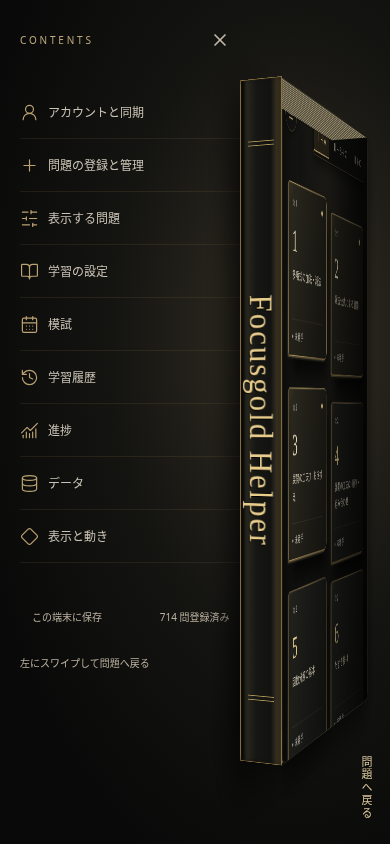
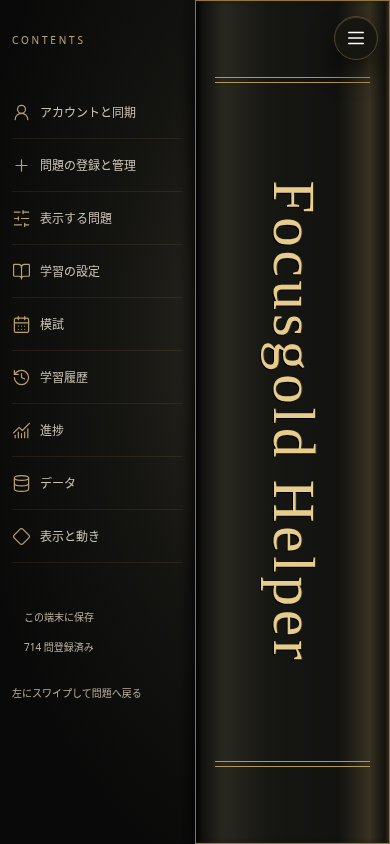
Turn book menu fully 90 degrees and float its toggle across screen

diff --git a/src/style.css b/src/style.css
@@ -1646,12 +1646,13 @@ input[type="date"] {
 /* A bound volume in a single perspective space. No canvas or animation library. */
 .book-scene {
   --turn: 0;
-  --book-thickness: 56px;
+  --book-thickness: 50vw;
+  --button-lift: 0;
   position: relative;
   width: 100%;
   height: 100%;
   perspective: 1800px;
-  perspective-origin: 50% 48%;
+  perspective-origin: 100% 50%;
   background: radial-gradient(
     ellipse at 75% 40%,
     #353025 0,
@@ -1666,12 +1667,8 @@ input[type="date"] {
   inset: 0;
   transform-style: preserve-3d;
   transform-origin: left center;
-  transform: translate3d(
-      calc(var(--turn) * min(74vw, 650px)),
-      0,
-      calc(var(--turn) * -100px)
-    )
-    rotateY(calc(var(--turn) * 67deg)) scale(calc(1 - var(--turn) * 0.12));
+  transform: translateX(calc(var(--turn) * 100%))
+    rotateY(calc(var(--turn) * 90deg));
   pointer-events: auto;
 }
 .book-scene[data-turning="true"] .book-volume {
@@ -1689,7 +1686,7 @@ input[type="date"] {
     #0c0c0b 100%
   );
   border: 1px solid #8b75422b;
-  border-radius: calc(var(--turn) * 12px);
+  border-radius: 0;
   box-shadow:
     0 18px 60px #0009,
     inset 2px 0 2px #d3ba7f22;
@@ -1742,7 +1739,7 @@ input[type="date"] {
   transform: translate(-50%, -50%) rotate(90deg);
   white-space: nowrap;
   font-family: "Bodoni MT", Didot, "Times New Roman", serif;
-  font-size: clamp(24px, 4.5dvh, 39px);
+  font-size: clamp(24px, 7dvh, 72px);
   letter-spacing: 0.065em;
   color: #e7cc8b;
   text-shadow:
@@ -1751,8 +1748,8 @@ input[type="date"] {
 }
 .spine-rule {
   position: absolute;
-  left: 8px;
-  right: 8px;
+  left: 10%;
+  right: 10%;
   height: 6px;
   border-block: 1px solid #b39759;
 }
@@ -1781,7 +1778,7 @@ input[type="date"] {
 .flip-menu {
   position: absolute;
   inset: 0 auto 0 0;
-  width: min(65%, 510px);
+  width: 50%;
   padding: max(18px, env(safe-area-inset-top)) 20px
     max(20px, env(safe-area-inset-bottom)) max(24px, env(safe-area-inset-left));
   overflow-y: auto;
@@ -1792,6 +1789,7 @@ input[type="date"] {
   transform: translateX(calc((1 - var(--turn)) * -24px));
 }
 .flip-menu-top {
+  min-height: 44px;
   display: flex;
   align-items: center;
   justify-content: space-between;
@@ -1835,20 +1833,11 @@ input[type="date"] {
 }
 .book-return {
   position: absolute;
-  left: min(65%, 560px);
+  left: 50%;
   right: 0;
   top: 0;
   bottom: 0;
   z-index: 3;
-}
-.book-return > span {
-  position: absolute;
-  bottom: max(24px, env(safe-area-inset-bottom));
-  right: 16px;
-  color: #d8c59a;
-  font-size: 11px;
-  writing-mode: vertical-rl;
-  letter-spacing: 0.16em;
 }
 .book-return:focus-visible {
   outline-offset: -8px;
@@ -1862,12 +1851,30 @@ input[type="date"] {
 .book-scene .book-tabs button {
   min-height: 44px;
 }
+/* One persistent button leaves the rotating face and travels above the scene. */
 .book-scene .menu-trigger {
+  --trigger-left: max(12px, env(safe-area-inset-left));
+  --trigger-right: max(12px, env(safe-area-inset-right));
+  left: var(--trigger-left);
+  top: calc(16px + env(safe-area-inset-top));
+  z-index: 6;
   border-radius: 50%;
+  background: #161510;
+  transform: translate3d(
+    calc(
+      var(--turn) * (100vw - var(--trigger-left) - var(--trigger-right) - 44px)
+    ),
+    calc(var(--button-lift) * 8px),
+    calc(var(--button-lift) * 32px)
+  );
   box-shadow:
-    0 4px 10px #0005,
-    inset 0 1px #b9a16b22;
+    0 calc(4px + var(--turn) * 10px + var(--button-lift) * 12px) 24px #0009,
+    inset 0 1px #b9a16b44;
 }
+.book-scene[data-turning="true"] .menu-trigger {
+  will-change: transform;
+}
+
 .book-scene .card-field {
   padding-top: calc(112px + env(safe-area-inset-top));
   padding-bottom: 80px;
@@ -1962,7 +1969,6 @@ input[type="date"] {
 }
 @media (max-width: 700px) {
   .book-scene {
-    --book-thickness: 48px;
     perspective: 1300px;
   }
   .book-scene .card-field {
@@ -1985,9 +1991,8 @@ input[type="date"] {
     font-size: 29px;
   }
   .flip-menu {
-    padding-left: max(20px, env(safe-area-inset-left));
+    padding-left: max(12px, env(safe-area-inset-left));
     padding-right: 12px;
-    width: 65%;
   }
   .flip-menu .menu-items button {
     gap: 9px;
@@ -2031,7 +2036,6 @@ input[type="date"] {
     font-size: 12px;
   }
   .flip-menu {
-    width: min(64%, 480px);
     padding-block: max(10px, env(safe-area-inset-top));
   }
   .flip-menu-top {
@@ -2039,8 +2043,8 @@ input[type="date"] {
   }
   .flip-menu .menu-items {
     display: grid;
-    grid-template-columns: 1fr 1fr;
-    column-gap: 18px;
+    grid-template-columns: repeat(2, minmax(0, 1fr));
+    column-gap: 12px;
   }
   .flip-menu .menu-items button {
     min-height: 46px;

diff --git a/src/BookScene.tsx b/src/BookScene.tsx
@@ -1,5 +1,5 @@
 import { useEffect, useRef, type ReactNode } from "react";
-import { X } from "lucide-react";
+import { Menu } from "lucide-react";
 
 type Props = {
   open: boolean;
@@ -21,6 +21,7 @@ export function BookScene({
 }: Props) {
   const scene = useRef<HTMLDivElement>(null);
   const menuRef = useRef<HTMLDivElement>(null);
+  const triggerRef = useRef<HTMLButtonElement>(null);
   const progress = useRef(0);
   const animate = useRef<(target: number, velocity?: number) => void>(() => {});
   const current = useRef({ open, motion, disabled, onOpenChange });
@@ -43,6 +44,10 @@ export function BookScene({
     const draw = (p: number) => {
       progress.current = Math.max(0, Math.min(1, p));
       root.style.setProperty("--turn", String(progress.current));
+      root.style.setProperty(
+        "--button-lift",
+        String(Math.sin(progress.current * Math.PI)),
+      );
       root.dataset.turn = progress.current.toFixed(3);
     };
     const settle = (target: number, speed = 0) => {
@@ -205,9 +210,7 @@ export function BookScene({
     if (!open) return;
     const previous = document.activeElement as HTMLElement | null;
     const panel = menuRef.current!;
-    panel
-      .querySelector<HTMLButtonElement>("button")
-      ?.focus({ preventScroll: true });
+    triggerRef.current?.focus({ preventScroll: true });
     const keydown = (e: KeyboardEvent) => {
       if (current.current.disabled) return;
       if (e.key === "Escape") {
@@ -216,6 +219,7 @@ export function BookScene({
       }
       if (e.key === "Tab") {
         const controls = [
+          triggerRef.current!,
           ...panel.querySelectorAll<HTMLButtonElement>(
             "button:not([disabled])",
           ),
@@ -251,7 +255,19 @@ export function BookScene({
       aria-modal={open ? true : undefined}
       aria-label={open ? "メニュー" : undefined}
     >
+      <button
+        ref={triggerRef}
+        id="menu-trigger"
+        className="menu-trigger icon-button"
+        aria-label={open ? "閉じる" : "メニューを開く"}
+        aria-expanded={open}
+        aria-controls="book-menu"
+        onClick={() => onOpenChange(!open)}
+      >
+        <Menu size={22} strokeWidth={1.5} />
+      </button>
       <div
+        id="book-menu"
         className="flip-menu"
         ref={menuRef}
         inert={!open}
@@ -259,13 +275,6 @@ export function BookScene({
       >
         <div className="flip-menu-top">
           <span>CONTENTS</span>
-          <button
-            className="icon-button"
-            aria-label="閉じる"
-            onClick={() => onOpenChange(false)}
-          >
-            <X size={20} />
-          </button>
         </div>
         {menu}
         <p className="flip-hint">左にスワイプして問題へ戻る</p>
@@ -286,9 +295,7 @@ export function BookScene({
           className="book-return"
           aria-label="問題一覧に戻る"
           onClick={() => onOpenChange(false)}
-        >
-          <span>問題へ戻る</span>
-        </button>
+        />
       )}
     </div>
   );

diff --git a/tests/book-scene.spec.ts b/tests/book-scene.spec.ts
@@ -27,6 +27,13 @@ for (const viewport of [
       await send("touchStart");
       await send("touchMove", 30);
       const first = Number(await root.getAttribute("data-turn"));
+      const midButton = await page.locator("#menu-trigger").evaluate((el) => {
+        const m = new DOMMatrix(getComputedStyle(el).transform);
+        return { x: m.m41, z: m.m43, rotation: m.m13 };
+      });
+      expect(midButton.x).toBeGreaterThan(10);
+      expect(midButton.z).toBeGreaterThan(0);
+      expect(midButton.rotation).toBe(0);
       await send("touchMove", 90);
       expect(Number(await root.getAttribute("data-turn"))).toBeGreaterThan(
         first,
@@ -169,4 +176,55 @@ test("PCでも回転した本をクリックすると一覧へ戻れる", async 
     "0.000",
   );
   await expect(page.getByRole("dialog")).toHaveCount(0);
+});
+
+test("90度回転で右半分を背表紙が埋め、同じメニューボタンが右上へ移動する", async ({
+  page,
+}, info) => {
+  await page.goto("/");
+  const trigger = page.locator("#menu-trigger");
+  const original = await trigger.elementHandle();
+  await trigger.click();
+  await expect(page.locator(".book-scene")).toHaveAttribute(
+    "data-turn",
+    "1.000",
+  );
+  for (const [width, height] of [
+    [320, 568],
+    [390, 844],
+    [844, 390],
+    [932, 430],
+    [740, 360],
+    [1440, 900],
+  ]) {
+    await page.setViewportSize({ width, height });
+    const spine = (await page.locator(".book-spine").boundingBox())!;
+    expect(spine.x).toBeCloseTo(width / 2, 0);
+    expect(spine.y).toBeCloseTo(0, 0);
+    expect(spine.width).toBeCloseTo(width / 2, 0);
+    expect(spine.height).toBeCloseTo(height, 0);
+    const matrix = await page.locator(".book-volume").evaluate((el) => {
+      const m = new DOMMatrix(getComputedStyle(el).transform);
+      return { cosine: m.m11, sine: m.m13, scaleY: m.m22 };
+    });
+    expect(matrix.cosine).toBeCloseTo(0, 5);
+    expect(matrix.sine).toBeCloseTo(-1, 5);
+    expect(matrix.scaleY).toBe(1);
+    const button = (await trigger.boundingBox())!;
+    expect(button.x + button.width).toBeCloseTo(width - 12, 0);
+    expect(button.y).toBeCloseTo(16, 0);
+    expect(
+      await original!.evaluate(
+        (el) => el === document.getElementById("menu-trigger"),
+      ),
+    ).toBe(true);
+    await page.screenshot({ path: info.outputPath(`full-spine-${width}.png`) });
+  }
+  await trigger.click();
+  await expect(page.locator(".book-scene")).toHaveAttribute(
+    "data-turn",
+    "0.000",
+  );
+  expect((await trigger.boundingBox())!.x).toBeCloseTo(12, 0);
+  await expect(trigger).toBeFocused();
 });

diff --git a/src/App.tsx b/src/App.tsx
@@ -1,6 +1,5 @@
 import { useEffect, useState, type CSSProperties } from "react";
 import {
-  Menu,
   X,
   Plus,
   SlidersHorizontal,
@@ -215,15 +214,6 @@ export default function App() {
           </>
         }
       >
-        <button
-          id="menu-trigger"
-          className="menu-trigger icon-button"
-          aria-label="メニューを開く"
-          aria-expanded={page === "menu"}
-          onClick={() => setPage("menu")}
-        >
-          <Menu size={22} strokeWidth={1.5} />
-        </button>
         <div
           className="book-tabs"
           role="tablist"

diff --git a/docs/verification.md b/docs/verification.md
@@ -63,3 +63,12 @@ Cloudflare 本番環境への公開、実機の Safari / iOS / Android による
 - データ形式・同梱CSV・復習アルゴリズム・認証/同期処理には変更なし。認証の回帰テストは従来のテスト用APIで実施し、本番接続確認ではない。
 
 [3Dメニューの画面](images/3d-book-menu.png) / [横画面の評価操作](images/3d-card-grade.png)
+
+## 90度回転・全画面の背表紙
+
+- 開いた状態のY軸回転を90度に変更。縮小と奥への移動を外し、右半分全体を背表紙、左半分をメニューに割り当てた。縦・横・PCで上下の余白を作らない。
+- ハンバーガーボタンを独立レイヤーへ移し、同一のボタンがスワイプに追従して持ち上がり、左上から右上へ移動する。閉じる操作で戻る。フォーカス循環と動き停止も維持。
+- 320×568、390×844、844×390、932×430、740×360、1440×900で、回転行列が90度、背表紙の実描画領域が右半分・全高、ボタンが右上の安全位置にあることをブラウザーテストで確認。途中のボタンのZ方向移動とDOM要素の同一性も確認。
+- 型検査・本番ビルド・31件のロジック/SQLテスト・35件のブラウザーテスト・フォーマット検査が成功。
+
+[縦画面の完成状態](images/3d-book-menu.png) / [横画面の完成状態](images/3d-book-menu-landscape.png)
